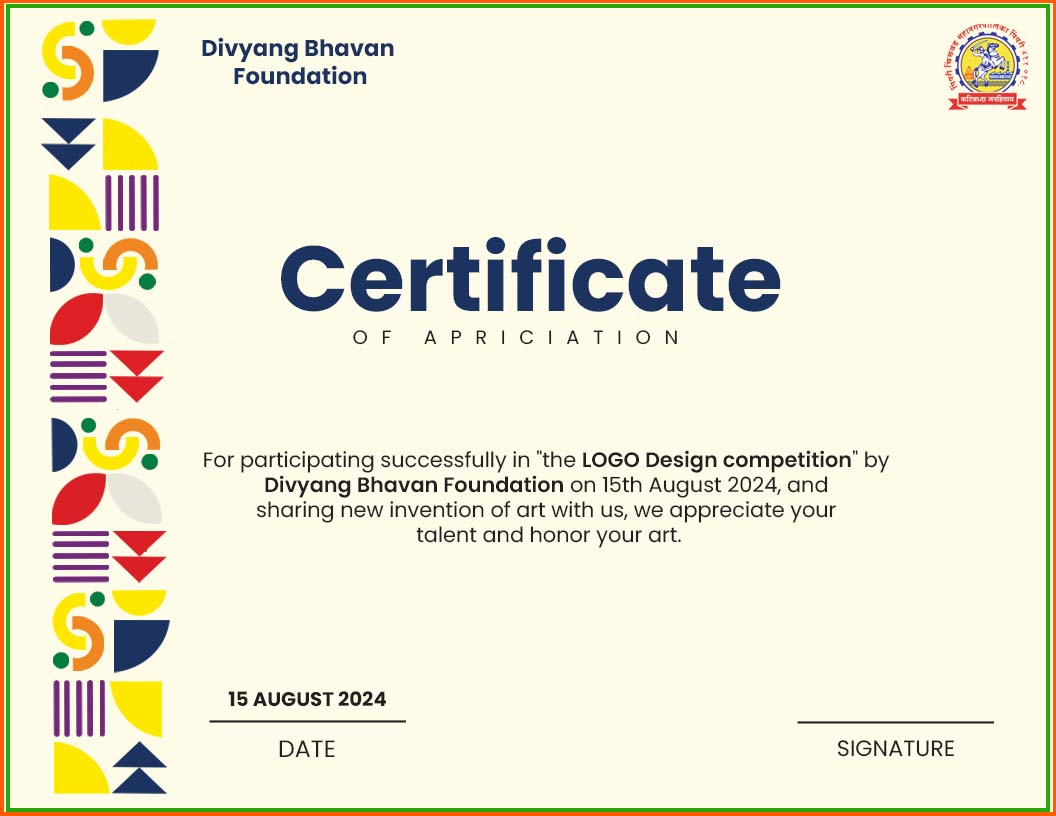
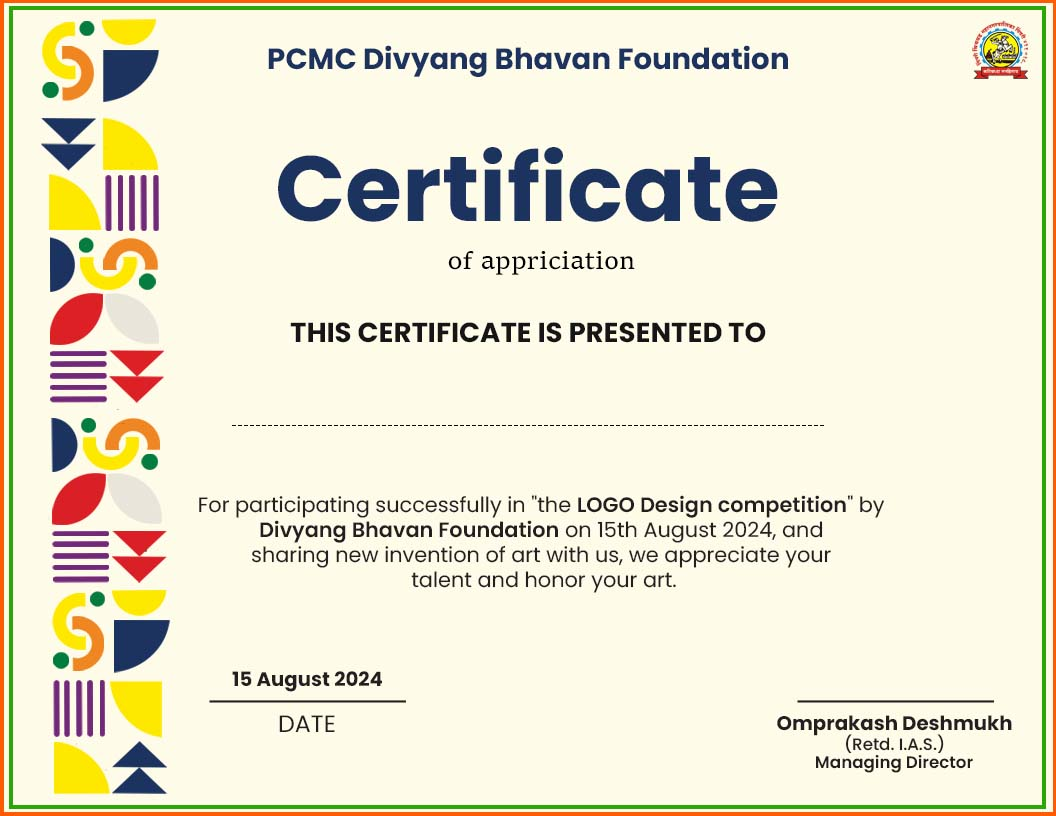
changes done

diff --git a/src/i18n.js b/src/i18n.js
@@ -111,6 +111,7 @@ i18next.use(initReactI18next).init({
                 registerAs: 'Register as',
                 personal: 'Personal',
                 company: 'Company',
+                acceptTerms: 'I accept the terms and conditions',
             },
         },
         mt:{
@@ -138,13 +139,13 @@ i18next.use(initReactI18next).init({
                 password: "पासवर्ड",
                 alreadyHaveAnAccount: "आधीच खाते आहे का?",
                 heading1: 'पात्रता',
-                description1: 'यामध्ये स्पर्धे मध्ये व्यक्तीचे वय, शिक्षण, लिंग, अपंगत्व, व्यवसाय, आणि कौशल्य यांचा कोणताही भेदभाव न करता हि स्पर्धा सर्वांसाठी खुली आहे.',
+                description1: 'या स्पर्धेमध्ये व्यक्तीचे वय, शिक्षण, लिंग, दिव्यंगत्व, व्यवसाय, आणि कौशल्य यांचा कोणताही भेदभाव न करता हि स्पर्धा सर्वांसाठी खुली आहे.',
                 heading2: 'टॅगलाइनचा संकल्पना',
                 description2: 'लोगो आणि टॅगलाइनमध्ये दिव्यांग व्यक्तींच्या सशक्तीकरणाचा दृष्टीकोण ठळकपणे मांडला जावा. त्याचबरोबर दिव्यांग व्यक्तींच्या अधिकारांच्या संरक्षणाची दिव्यांग भवन फाउंडेशनची बांधिलकी त्यामधून स्पष्ट व्हावी.',
                 heading3: 'प्रेरणादायक लोगो स्पर्धा',
-                description3: 'दिव्यांग भवन फाउंडेशन"साठी लोगो व टॅगलाईन डिझाईन करण्यासाठी स्पर्धेचे आयोजन करण्यात आले आहे. यामध्ये देशातील सर्व सर्जनशील व्यक्तींनी सहभाग नोंदविण्याचे आवाहन दिव्यांग फाउंडेशन तर्फे करण्यात आले आहे.',
+                description3: 'दिव्यांग भवन फाउंडेशन"साठी लोगो व टॅगलाईन डिझाईन करण्यासाठी स्पर्धेचे आयोजन करण्यात आले आहे. यामध्ये देशातील सर्व सर्जनशील व्यक्तींनी सहभाग नोंदविण्याचे आवाहन दिव्यांग फाउंडेशन तर्फे करण्यात येत आहे.',
                 importantNoticeForContestants: 'स्पर्धकांसाठी महत्त्वाची सूचना',
-                noticeForWinners: 'स्पर्धेतील जे स्पर्धक विजेते होतील अशांकडून त्यांचे लोगो व टॅगलाईन ट्रेड मार्क व विजेत्या कडून Trade Mark व बौध्दीक संपदा (IP) हक्क कायदा याअनुसार करार करून ते सी.डी. आर फॉरमॅटमध्ये कंपनीसाठी घेण्यात येतील.',
+                noticeForWinners: 'स्पर्धेतील जे स्पर्धक विजेते होतील अशांकडून त्यांचे लोगो व टॅगलाईन ट्रेड मार्क (Trade Mark) व बौध्दीक संपदा (IP) हक्क कायदा याअनुसार करार करून ते सी.डी. आर फॉरमॅटमध्ये कंपनीसाठी घेण्यात येतील.',
                 freeEntryNotice: 'स्पर्धेमध्ये सहभाग घेण्यासाठी प्रवेश मोफत असून प्रत्येक सहभागी स्पर्धकाला पिंपरी चिंचवड महानगरपालिका दिव्यांग भवन फाउंडेशन कंपनी द्वारे सहभागाचे प्रमाणपत्र देण्यात येईल.',
                 competitionDuration: 'स्पर्धेचा कालावधी',
                 competitionDescription: 'दिव्यांग भवन फाउंडेशनसाठी लोगो आणि टॅगलाइन डिझाइन स्पर्धा! सर्जनशील व्यक्तींना सहभागी होण्यासाठी आमंत्रण. आपल्या अद्वितीय कल्पनांसह दिव्यांग व्यक्तींच्या सक्षमीकरणाचा संदेश पसरवा.',
@@ -157,9 +158,9 @@ i18next.use(initReactI18next).init({
                 competenceAndSelfEsteem: 'सक्षमता आणि स्वाभिमान',
                 empowermentAndSelfEsteemDescription: 'सक्षमता आणि स्वाभिमान म्हणजे दिव्यांगांना त्यांच्या क्षमतांची जाणीव करून देणे आणि त्यांना स्वाभिमानाने जगण्यासाठी प्रेरित करणे. आपण एकत्र येऊन दिव्यांगांसाठी उज्ज्वल भविष्य घडवूया.',
                 empowermentOfDisabled: 'दिव्यांगांचे सशक्तीकरण',
-                empowermentOfDisabledDescription: 'दिव्यांगांचे सशक्तीकरण म्हणजे त्यांना स्वावलंबी बनविणे, त्यांच्या कौशल्यांना वाव देणे आणि समाजात त्यांचे स्थान मजबूत करणे. हा आमचा उद्देश आहे, समानतेची दिशा आणि सशक्ततेची प्रेरणा.',
-                divyangFoundation: 'दिव्यांग फाउंडेशन',
-                pimpriDescription: 'पिंपरी चिंचवड महानगरपालिका भारतातील दिव्यांग व्यक्तींच्या हक्कांसाठी पुढाकार घेण्याच्या बाबतीत अग्रेसर आहे. महानगरपालिकेने दिव्यांगांचे हित जपण्यासाठी आणि त्यांच्या हक्कांचे संरक्षण करण्यासाठी अनेक प्रभावी योजना राबवल्या आहेत. पिंपरी चिंचवड महानगरपालिका दिव्यांग व्यक्तींच्या हक्क अधिनियम, 2016 (RPWD Act 2016) ची अंमलबजावणी करण्यासाठी अत्यंत वचनबद्ध आहे. तद्नुसार, महानगरपालिकेने मोरवाडी, पिंपरी येथे 25000 चौ.फुटांच्या क्षेत्रफळात दिव्यांग भवन फाउंडेशन स्थापन केले आहे. सदर भवन सर्व दिव्यांग व्यक्तींच्या थेरपी आणि पुनर्वसन तसेच त्यांच्यातील कौशल्य आणि सक्षमीकरणासाठी कार्य करते (RPWD Act 2016 अंतर्गत नामांकित 21 सर्व दिव्यांग व्यक्ती). दिव्यांग भवन "दिव्यांग भवन फाउंडेशन" द्वारे केले जाईल.',
+                empowermentOfDisabledDescription: 'दिव्यांगांचे सशक्तीकरण म्हणजे त्यांना स्वावलंबी बनविणे, त्यांच्या कौशल्यांना वाव देणे आणि समाजात त्यांचे स्थान मजबूत करणे. हा आमचा उद्देश आहे .',
+                divyangFoundation: 'पिंपरी चिंचवड महानगरपालिका  दिव्यांग  भवन फाऊंडेशन',
+                pimpriDescription: 'पिंपरी चिंचवड महानगरपालिका भारतातील दिव्यांग व्यक्तींच्या हक्कांसाठी पुढाकार घेण्याच्या बाबतीत अग्रेसर आहे. महानगरपालिकेने दिव्यांगांचे हित जपण्यासाठी आणि त्यांच्या हक्कांचे संरक्षण करण्यासाठी अनेक प्रभावी योजना राबवल्या आहेत. पिंपरी चिंचवड महानगरपालिका दिव्यांग व्यक्तींच्या हक्क अधिनियम, 2016 (RPwD Act 2016) ची अंमलबजावणी करण्यासाठी  वचनबद्ध आहे. तद्नुसार, महानगरपालिकेने मोरवाडी, पिंपरी येथे दिव्यांग भवन फाउंडेशन स्थापन केले आहे. सदर भवन सर्व दिव्यांग व्यक्तींच्या थेरपी आणि पुनर्वसन तसेच त्यांच्यातील कौशल्य आणि सक्षमीकरणासाठी कार्य करते.',
                 publicComments: 'सार्वजनिक टिप्पण्या',
                 peopleSayAboutUs: 'लोक आमच्याबद्दल काय म्हणतात',
                 divyangPhenomenalJob: 'दिव्यांग भवन फाउंडेशनने समाजातील वेगवेगळ्या प्रकारच्या दिव्यांगांना सशक्त बनवण्यात अद्भुत काम केले आहे. त्यांचे कठोर परिश्रम आणि समर्पण अनेकांच्या जीवनात बदल घडवून आणले आहेत. या फाउंडेशनद्वारे दिव्यांगांना दिलेली संधी आणि समर्थन खूप प्रेरणादायक आहे.',
@@ -184,21 +185,21 @@ i18next.use(initReactI18next).init({
                 countryCode: 'देश कोड',
                 participationCertificate: 'प्रत्येक सहभागी स्पर्धकाला पिंपरी चिंचवड महानगरपालिका दिव्यांग भवन फाउंडेशन कंपनी द्वारे सहभागाचे प्रमाणपत्र देण्यात येईल.',
                 termsAndConditions: 'स्पर्धेच्या अटी आणि शर्ती',
-                logoSize: 'लोगोचा आकार 5 MB असावा. कारण आवश्यक असल्यास लोगोची मोठ्या फलकाच्या आकारात वाढ करता येईल.',
+                logoSize: 'लोगोचा आकार 5 MB असावा.आवश्यक असल्यास लोगोची मोठ्या फलकाच्या आकारात वाढ करता येईल.',
                 highResolution: 'लोगो उच्च रिझोल्यूशनमध्ये असावा आणि किमान 300 DPI असावा.',
                 acceptedFormats: 'सदर लोगो डिझाईन आणि टॅगलाईन JPEG किंवा PDF फॉरमॅटमध्ये स्वीकारले जातील.',
                 evaluationCriteria: 'लोगोसाठी मूल्यांकन निकष पुढीलप्रमाणे आहेत:',
                 simplicity: 'साधेपणा',
                 simplicityDescription: 'डिझाईन साधे आणि समजण्यास सोपे असावे.',
                 unique: 'अद्वितीय',
-                uniqueDescription: 'लोगो मौलिक असावा आणि इतर कोणत्याही संस्थेच्या लोगोशी साम्य नसावा.',
+                uniqueDescription: 'लोगो मौलिक असावा आणि इतर कोणत्याही संस्थेच्या लोगोशी साम्य नसावे.',
                 relevance: 'संबंध',
                 relevanceDescription: 'डिझाईन दिव्यांग भवन फाउंडेशनच्या कार्याशी संबंधित असावे.',
                 honorCompetition: 'स्पर्धेचा सन्मान करा, नियमांचे पालन करा!',
                 participationHonor: 'स्पर्धेत सहभाग, सर्जनशीलतेचा सन्मान',
                 empoweredDisabled: 'सशक्त दिव्यांग, समृद्ध समाज!',
                 winPrizes: 'आकर्षक बक्षिसे जिंका!',
-                divyangBhavanFoundation: 'दिव्यांग भवन फाउंडेशन',
+                divyangBhavanFoundation: 'पिंपरी चिंचवड महानगरपालिका  दिव्यांग  भवन फाऊंडेशन',
                 supportInspiration: 'आपला पाठिंबा आम्हाला प्रेरणा देईल',
                 supportEmpowerment: 'आपला पाठिंबा, आमची प्रेरणा; दिव्यांगांच्या सशक्तीकरणासाठी एक नवीन दिशा उघडूया!',
                 watchVideo: 'व्हिडिओ पहा',
@@ -218,6 +219,7 @@ i18next.use(initReactI18next).init({
                 registerAs: 'नोंदणी करा',
                 personal: 'वैयक्तिक',
                 company: 'कंपनी',
+                acceptTerms: 'मी अटी व शर्ती स्वीकारतो/स्वीकारते',
             }
         }
     }

diff --git a/src/components/SignUp.jsx b/src/components/SignUp.jsx
@@ -1,5 +1,5 @@
 import React,{useState} from 'react'
-import { InputLabel,TextField,Box,Grid,Button,CircularProgress, InputAdornment, IconButton, Typography, Divider, RadioGroup, FormControlLabel, Radio } from '@mui/material';
+import { InputLabel,TextField,Box,Grid,Button,CircularProgress, InputAdornment, IconButton, Typography, Divider, RadioGroup, FormControlLabel, Radio, Checkbox } from '@mui/material';
 import { useFormik } from 'formik';
 import ApiManager from '../apiManager/apiManager';
 import { userSchema } from '../utiils/validationSchema';
@@ -50,7 +50,8 @@ const SignUpForm = () => {
             mobileNo:'',
             email:'',
             password:'',
-            passwordConfirm:''
+            passwordConfirm:'',
+            isChecked:false,
         },
         onSubmit:handleSubmit,
         validationSchema:userSchema
@@ -127,8 +128,20 @@ const SignUpForm = () => {
           <InputLabel>{t('passwordConfirm')}</InputLabel>
           <TextField fullWidth placeholder={t('confirmPassword')} type={'password'} size='small' {...formik.getFieldProps("passwordConfirm")} {...getErrorProps("passwordConfirm")} />
           </Grid>
+          <Grid item sm={12} xs={12}>
+          <FormControlLabel
+          onChange={(e)=>console.log(e.target.value)}
+          control={ <Checkbox
+            checked={formik.values.isChecked}
+            onChange={(event)=>formik.setFieldValue('isChecked',event.target.checked)}
+            inputProps={{ 'aria-label': 'controlled' }}
+          />}
+          label={t('acceptTerms')}
+          labelPlacement="end"
+        />
+          </Grid>
         </Grid>
-        <Button variant="contained" type='submit' sx={{mt:2}} disabled={isLoading} fullWidth={true} >
+        <Button variant="contained" type='submit' sx={{mt:2}} disabled={!formik.values.isChecked || isLoading} fullWidth={true} >
       {isLoading ? <CircularProgress size={24} /> : t('signUp')}
     </Button>
     </form>

diff --git a/src/components/competition/add.jsx b/src/components/competition/add.jsx
@@ -42,15 +42,14 @@ const Add = ({onOpen,onClose,recall,setAlertData}) => {
     
     const formik = useFormik({
         initialValues:{
+          contestType:'',
           name:'',
           startDate:null,
           endDate:null,
-          maxContestant:'',
           icon:'',
           prizeType:'',
           prizeValue:'',
           prizeDescription:'',
-          joiningFee:'',
         },
         onSubmit:handleSubmit,
         validationSchema:competitionSchema
@@ -90,14 +89,14 @@ const Add = ({onOpen,onClose,recall,setAlertData}) => {
           <InputLabel>End Date</InputLabel>
           <DatePicker format='DD/MM/YYYY' slotProps={{textField:{size:'small',fullWidth:true,...getErrorProps('endDate')}}} onChange={(e)=>formik.setFieldValue('endDate',e.format())} />
           </Grid>
-          <Grid item sm={6}>
+          {/* <Grid item sm={6}>
           <InputLabel>Total Contestants</InputLabel>
           <TextField fullWidth size='small' {...formik.getFieldProps("maxContestant")} {...getErrorProps("maxContestant")} />
-          </Grid>
-          <Grid item sm={6}>
+          </Grid> */}
+          {/* <Grid item sm={6}>
           <InputLabel>Joining Fee</InputLabel>
           <TextField fullWidth size='small' {...formik.getFieldProps("joiningFee")} {...getErrorProps("joiningFee")} />
-          </Grid>
+          </Grid> */}
           <Grid item sm={12}>
           <InputLabel>Prize Description</InputLabel>
           <TextField multiline rows={2} fullWidth size='small' {...formik.getFieldProps("prizeDescription")} {...getErrorProps("prizeDescription")} />

diff --git a/src/utiils/validationSchema.js b/src/utiils/validationSchema.js
@@ -9,12 +9,10 @@ export const competitionSchema = Yup.object().shape({
     name:Yup.string().required(fieldRequired),
     startDate:Yup.date().required(fieldRequired),
     endDate:Yup.date().required(fieldRequired),
-    maxContestant:Yup.number().min(1,'Must be a positive value'),
     icon:Yup.mixed().required(fieldRequired).test('fileFormat', 'Unsupported Format', value => !value || (value && SUPPORTED_FORMATS.includes(value.type))),
     prizeType:Yup.string(),
     prizeValue:Yup.number().required(fieldRequired).min(1,'Must be a positive value'),
     prizeDescription:Yup.string(),
-    joiningFee:Yup.number().required(fieldRequired).min(1,'Must be a positive value'),
 })
 
 export const userSchema = Yup.object().shape({
@@ -82,7 +80,11 @@ export const addContestSchema = Yup.object().shape({
     }),
     tagline:Yup.string().when('type',{
         is:(type) => type === 'tagline',
-        then:()=>Yup.string().min(3, 'Minimum 3 characters are required').required(fieldRequired),
+        then:()=>Yup.string().min(3, 'Minimum 3 characters are required').required(fieldRequired).test('max-5-words', 'Maximum 5 words are allowed', function (value) {
+            if (!value) return true; 
+            const wordCount = value.trim().split(/\s+/).length;
+            return wordCount <= 5;
+          }),
         otherwise:()=>Yup.string().notRequired(),
     }),
 })

diff --git a/src/components/card.jsx b/src/components/card.jsx
@@ -62,7 +62,7 @@ export default function CompetitionCard({data,recall}) {
     </Card>
     </Grid>
    {open && <Participate onOpen={open} handleConfirmation={handleConfirmation} onClose={()=>setOpen(false)} setAlertData={setAlertData} contestId={data?._id} recall={recall}/>}
-   <ConfirmDialog onOpen={successDialog} onClose={()=>setSuccessDialog(false)} onConfirm={()=>setSuccessDialog(false)} title="Success Confirmation" message={successData}/>
+   <ConfirmDialog onOpen={successDialog} onClose={()=>setSuccessDialog(false)} onConfirm={()=>setSuccessDialog(false)} title="Success" message={successData}/>
     </>
   );
 }

diff --git a/src/components/competition/table.jsx b/src/components/competition/table.jsx
@@ -27,21 +27,9 @@ const Table = ({ rowData, isLoading }) => {
       selector: (row) => getFormatDate(row.endDate),
       sortable: true,
     },
-    {
-        name: "Total Contestants",
-        selector: (row) => row.maxContestant,
-        sortable:true,
-        width:'170px'
-      },
       {
         name: "Total Applicants",
         selector: (row) => row?.participants.length,
-        sortable:true,
-        width:'170px'
-      },
-      {
-        name: "Joining Fee",
-        selector: (row) => row.joiningFee,
         sortable:true,
         width:'170px'
       },

diff --git a/src/components/landing/carousel.jsx b/src/components/landing/carousel.jsx
@@ -46,7 +46,7 @@ const MyCarousel = () => {
       responsive={responsive}   
       infinite={true}
       autoPlay={true}
-      autoPlaySpeed={3000}
+      autoPlaySpeed={10000}
       keyBoardControl={true}
       customTransition="all .5"
       transitionDuration={1000}

diff --git a/src/components/landing/slider.jsx b/src/components/landing/slider.jsx
@@ -59,7 +59,7 @@ const Slider = () => {
       responsive={responsive}   
       infinite={true}
       autoPlay={true}
-      autoPlaySpeed={1000}
+      autoPlaySpeed={10000}
       keyBoardControl={true}
       customTransition="all .5"
       transitionDuration={1000}
